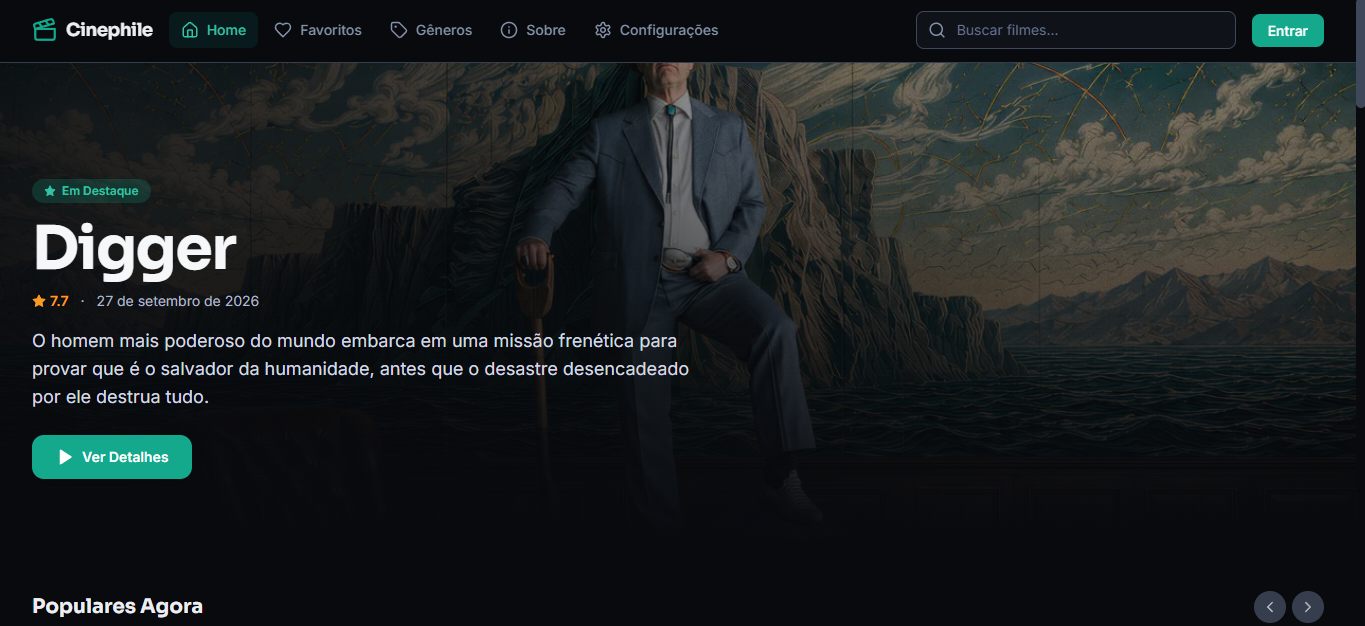
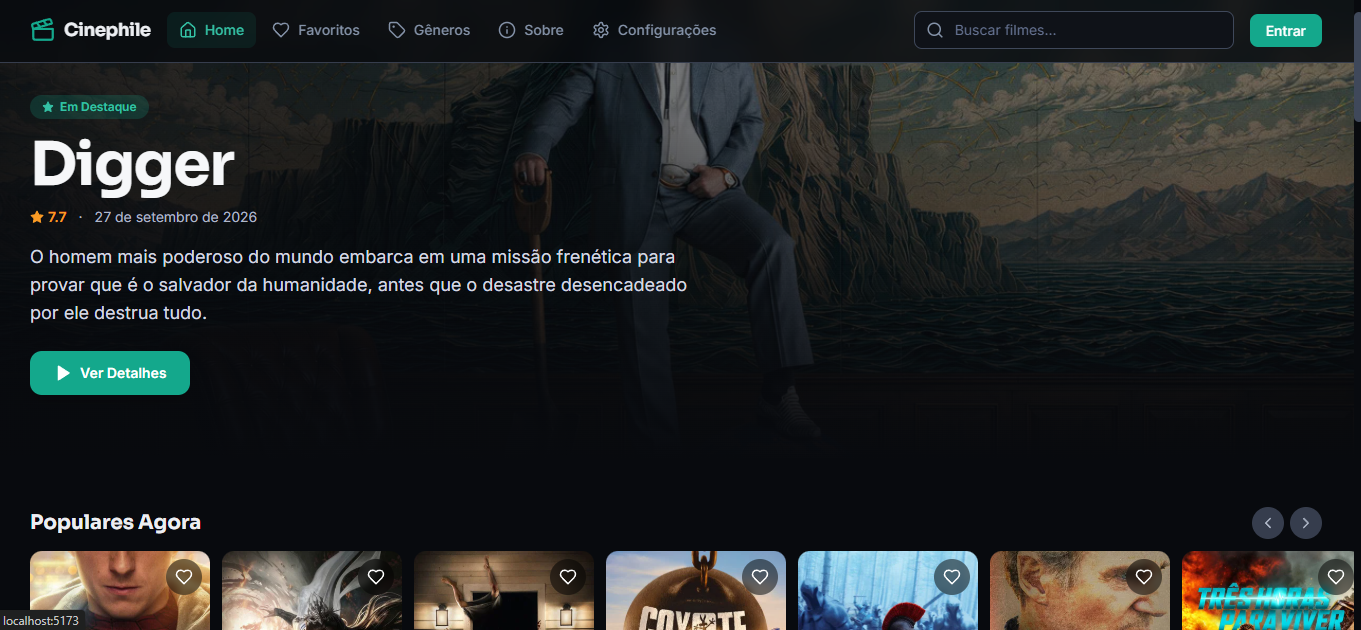
feat: screenshots alterada

diff --git a/README.md b/README.md
@@ -36,11 +36,11 @@ A interface é uma SPA React organizada em páginas, componentes reutilizáveis,
 
 **Detalhes e recomendações de um filme**
 
-![Página de detalhes do filme](project/src/docs/screenshots/imagem-3.png)
+![Página de detalhes do filme](project/src/docs/screenshots/imagem-4.png)
 
 **Configurações de aparência e conta**
 
-![Página de configurações](project/src/docs/screenshots/imagem-4.png)
+![Página de configurações](project/src/docs/screenshots/imagem-3.png)
 
 **Cadastro de usuário**
 
